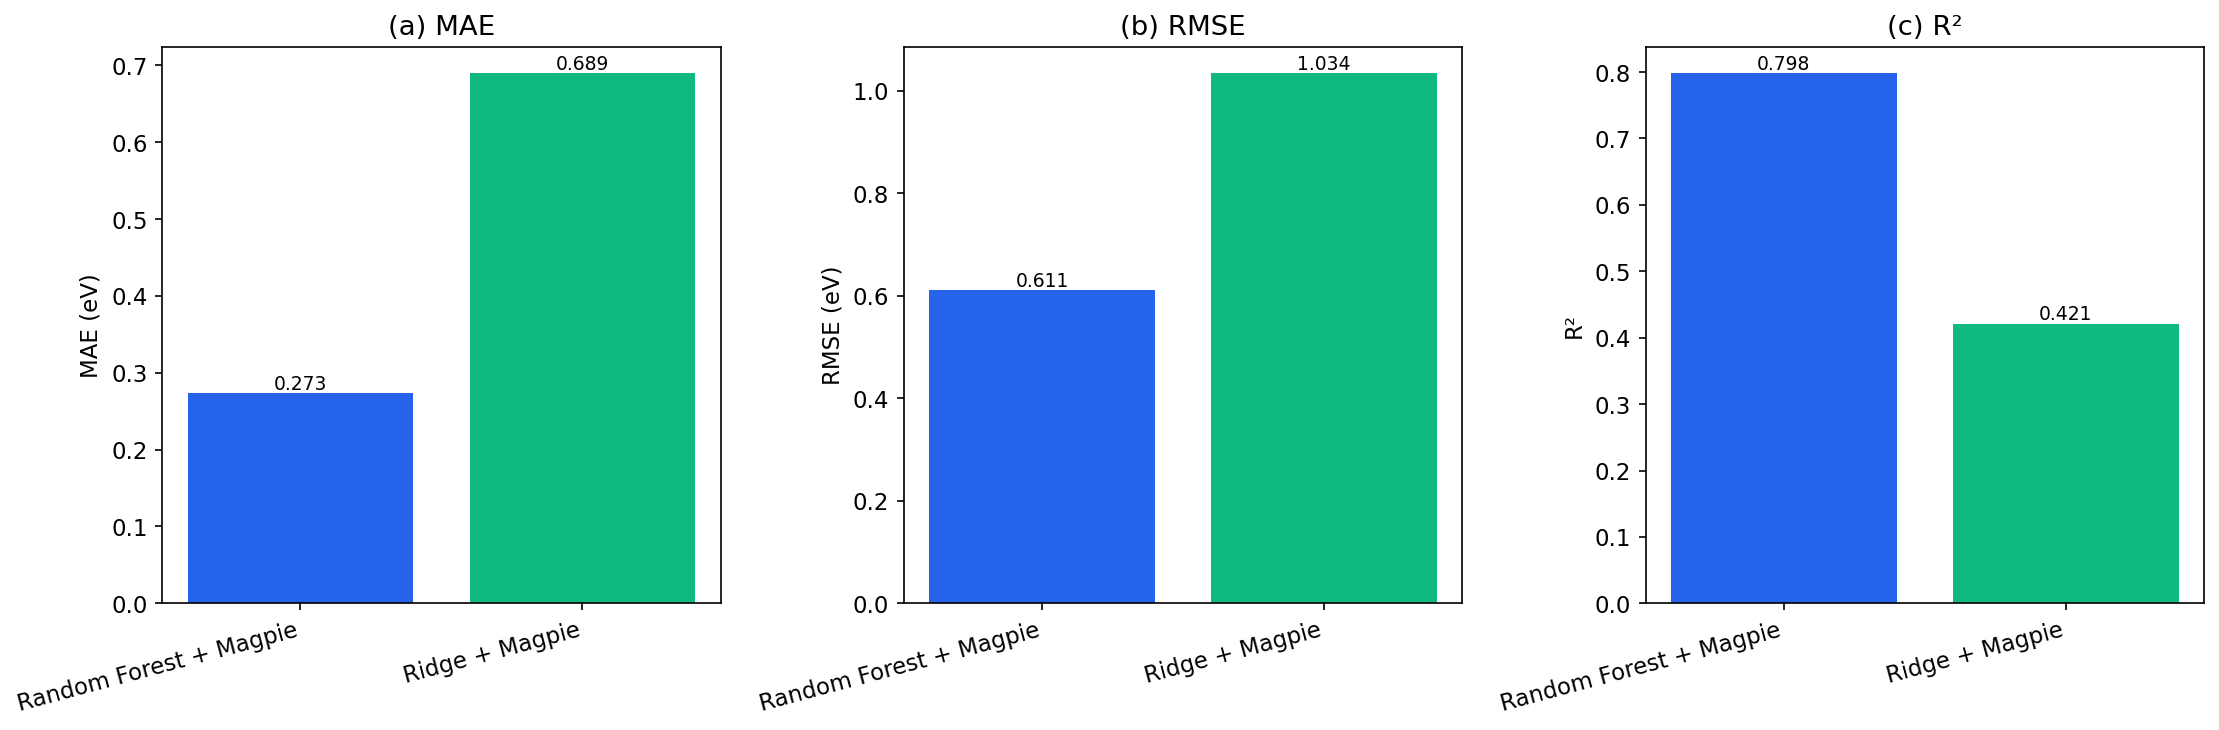
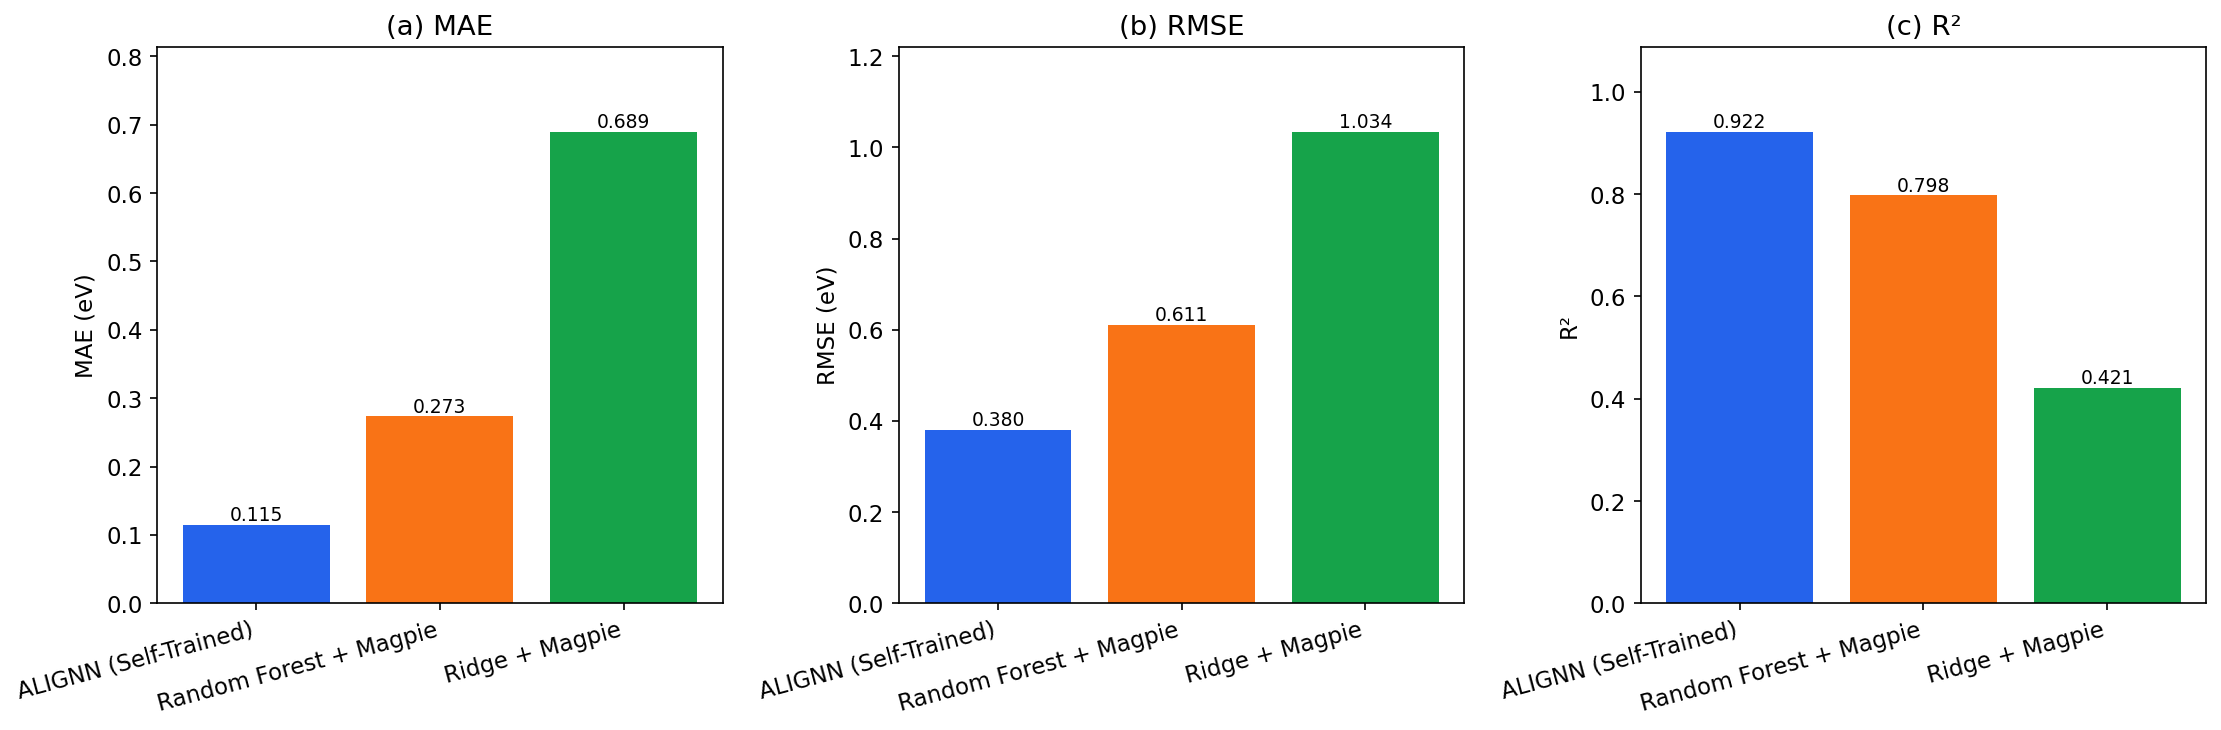
Update evaluation outputs and slide outline

diff --git a/src/evaluate.py b/src/evaluate.py
@@ -23,12 +23,13 @@ from utils import (
 
 
 def compute_metrics(y_true: np.ndarray, y_pred: np.ndarray) -> dict[str, float]:
-    from sklearn.metrics import mean_absolute_error, mean_squared_error, r2_score
-
+    residuals = y_pred - y_true
+    ss_res = float(np.sum(residuals**2))
+    ss_tot = float(np.sum((y_true - np.mean(y_true)) ** 2))
     return {
-        "MAE_eV": float(mean_absolute_error(y_true, y_pred)),
-        "RMSE_eV": float(np.sqrt(mean_squared_error(y_true, y_pred))),
-        "R2": float(r2_score(y_true, y_pred)),
+        "MAE_eV": float(np.mean(np.abs(residuals))),
+        "RMSE_eV": float(np.sqrt(np.mean(residuals**2))),
+        "R2": float(1 - ss_res / ss_tot) if ss_tot else 0.0,
     }
 
 
@@ -37,7 +38,16 @@ def load_prediction_frame() -> pd.DataFrame:
     catalog_path = RESULTS_DIR / "material_catalog.csv"
     if not prediction_path.exists() or not catalog_path.exists():
         return pd.DataFrame(
-            columns=["jid", "target", "alignn_pretrained", "random_forest", "ridge", "formula", "family"]
+            columns=[
+                "jid",
+                "target",
+                "alignn_pretrained",
+                "alignn_self_trained",
+                "random_forest",
+                "ridge",
+                "formula",
+                "family",
+            ]
         )
 
     bundle = np.load(prediction_path, allow_pickle=True)
@@ -50,6 +60,19 @@ def load_prediction_frame() -> pd.DataFrame:
             "ridge": bundle["ridge"].astype(float),
         }
     )
+    self_trained_path = RESULTS_DIR / "self_trained_predictions.npz"
+    if self_trained_path.exists():
+        self_trained = np.load(self_trained_path, allow_pickle=True)
+        self_frame = pd.DataFrame(
+            {
+                "jid": self_trained["ids"].astype(str),
+                "alignn_self_trained": self_trained["predictions"].astype(float),
+            }
+        )
+        frame = frame.merge(self_frame, on="jid", how="left")
+    else:
+        frame["alignn_self_trained"] = np.nan
+
     catalog = pd.read_csv(catalog_path)[["jid", "formula", "family"]]
     return frame.merge(catalog, on="jid", how="left")
 
@@ -138,7 +161,12 @@ def plot_training_history() -> bool:
     return True
 
 
-def plot_method_comparison(benchmark: dict[str, dict[str, float]]) -> None:
+def plot_method_comparison(benchmark: dict[str, dict[str, float] | None]) -> None:
+    benchmark = {
+        key: payload
+        for key, payload in benchmark.items()
+        if payload is not None and not np.isnan(payload.get("MAE_eV", np.nan))
+    }
     if not benchmark:
         return
 
@@ -151,7 +179,7 @@ def plot_method_comparison(benchmark: dict[str, dict[str, float]]) -> None:
     r2s = [payload.get("R2", np.nan) for payload in benchmark.values()]
 
     fig, axes = plt.subplots(1, 3, figsize=(15, 5))
-    colors = ["#2563eb", "#10b981", "#7c3aed", "#f59e0b"]
+    colors = ["#2563eb", "#f97316", "#16a34a", "#7c3aed", "#f59e0b"]
 
     for axis, values, ylabel, title in zip(
         axes,
@@ -168,6 +196,9 @@ def plot_method_comparison(benchmark: dict[str, dict[str, float]]) -> None:
             if np.isnan(value):
                 continue
             axis.text(bar.get_x() + bar.get_width() / 2, value, f"{value:.3f}", ha="center", va="bottom", fontsize=9)
+        if values and not np.all(np.isnan(values)):
+            y_max = float(np.nanmax(values))
+            axis.set_ylim(0, y_max * 1.18 if y_max > 0 else 1)
 
     plt.tight_layout()
     plt.savefig(FIGURES_DIR / "method_comparison.png", dpi=150, bbox_inches="tight")
@@ -177,10 +208,14 @@ def plot_method_comparison(benchmark: dict[str, dict[str, float]]) -> None:
 def per_family_evaluation(df: pd.DataFrame) -> list[dict[str, object]]:
     if df.empty or "family" not in df.columns:
         return []
+    metric_columns = ("alignn_self_trained", "alignn_pretrained", "random_forest", "ridge")
     rows = []
     for family, group in df.groupby("family"):
         family_row: dict[str, object] = {"family": family, "count": int(len(group))}
-        for column in ("alignn_pretrained", "random_forest", "ridge"):
+        for column in metric_columns:
+            if column not in group.columns:
+                family_row[f"{column}_MAE_eV"] = None
+                continue
             valid = group[["target", column]].dropna()
             family_row[f"{column}_MAE_eV"] = (
                 float(np.mean(np.abs(valid[column] - valid["target"]))) if not valid.empty else None
@@ -194,17 +229,45 @@ def per_family_evaluation(df: pd.DataFrame) -> list[dict[str, object]]:
         setup_matplotlib()
         import matplotlib.pyplot as plt
 
+        plot_columns = [
+            ("alignn_self_trained_MAE_eV", "ALIGNN (Self-Trained)", "#2563eb"),
+            ("random_forest_MAE_eV", "Random Forest", "#f97316"),
+            ("ridge_MAE_eV", "Ridge", "#16a34a"),
+        ]
+        if top.get("alignn_pretrained_MAE_eV", pd.Series(dtype=float)).notna().any():
+            plot_columns.insert(1, ("alignn_pretrained_MAE_eV", "ALIGNN (Pretrained)", "#7c3aed"))
+        plot_columns = [
+            (column, label, color)
+            for column, label, color in plot_columns
+            if column in top.columns and top[column].notna().any()
+        ]
+        if not plot_columns:
+            return result
+
         positions = np.arange(len(top))
-        width = 0.25
+        width = min(0.8 / len(plot_columns), 0.24)
         fig, ax = plt.subplots(figsize=(12, 6))
-        ax.bar(positions - width, top["alignn_pretrained_MAE_eV"].fillna(np.nan), width, label="ALIGNN (Pretrained)")
-        ax.bar(positions, top["random_forest_MAE_eV"].fillna(np.nan), width, label="Random Forest")
-        ax.bar(positions + width, top["ridge_MAE_eV"].fillna(np.nan), width, label="Ridge")
+        offsets = (np.arange(len(plot_columns)) - (len(plot_columns) - 1) / 2) * width
+        for offset, (column, label, color) in zip(offsets, plot_columns):
+            bars = ax.bar(positions + offset, top[column].fillna(np.nan), width, label=label, color=color)
+            for bar, value in zip(bars, top[column]):
+                if pd.isna(value):
+                    continue
+                ax.text(
+                    bar.get_x() + bar.get_width() / 2,
+                    float(value),
+                    f"{float(value):.3f}",
+                    ha="center",
+                    va="bottom",
+                    fontsize=8,
+                )
         ax.set_xticks(positions)
         ax.set_xticklabels(top["family"], rotation=20, ha="right")
         ax.set_ylabel("MAE (eV)")
         ax.set_title("Per-Family Prediction Error")
         ax.legend()
+        y_max = float(np.nanmax([top[column].to_numpy(dtype=float) for column, _, _ in plot_columns]))
+        ax.set_ylim(0, y_max * 1.18 if y_max > 0 else 1)
         plt.tight_layout()
         plt.savefig(FIGURES_DIR / "per_family_performance.png", dpi=150, bbox_inches="tight")
         plt.close(fig)
@@ -220,7 +283,10 @@ def learning_curve_analysis() -> list[dict[str, object]]:
         from pymatgen.core import Composition
     except Exception as exc:
         print(f"⚠ Skipping learning curve analysis: {exc}")
-        return []
+        existing = read_json(RESULTS_DIR / "learning_curve.json", default=[]) or []
+        if existing:
+            print("   Keeping existing learning-curve results.")
+        return existing
 
     catalog = pd.read_csv(RESULTS_DIR / "material_catalog.csv").set_index("jid")
     train = pd.read_csv(DATA_DIR / "train_id_prop.csv").rename(columns={"id": "jid"}).join(catalog, on="jid", rsuffix="_meta")
@@ -298,21 +364,23 @@ def run(quick: bool = False, device: str = "cpu") -> dict[str, object]:
     set_random_seeds()
 
     frame = load_prediction_frame()
-    benchmark = read_json(RESULTS_DIR / "pretrain_benchmark.json", default={}) or {}
-
     pretrained_metrics = plot_prediction_panel(frame, "alignn_pretrained", "ALIGNN (Pretrained)", "eval_pretrained.png")
+    self_trained_metrics = plot_prediction_panel(
+        frame, "alignn_self_trained", "ALIGNN (Self-Trained)", "eval_self_trained.png"
+    )
     rf_metrics = plot_prediction_panel(frame, "random_forest", "Random Forest", "eval_random_forest.png")
     ridge_metrics = plot_prediction_panel(frame, "ridge", "Ridge Regression", "eval_ridge.png")
-    self_trained_metrics = None
-    self_trained_bundle = RESULTS_DIR / "self_trained_predictions.npz"
-    if self_trained_bundle.exists():
-        data = np.load(self_trained_bundle, allow_pickle=True)
-        temp = pd.DataFrame({"target": data["targets"], "self_trained": data["predictions"]})
-        metrics = plot_prediction_panel(temp.rename(columns={"self_trained": "prediction"}), "prediction", "ALIGNN (Self-Trained)", "eval_self_trained.png")
-        self_trained_metrics = metrics
 
     plot_training_history()
-    plot_method_comparison(benchmark)
+    plot_method_comparison(
+        {
+            "alignn_self_trained": {"method": "ALIGNN (Self-Trained)", **self_trained_metrics}
+            if self_trained_metrics
+            else None,
+            "random_forest": {"method": "Random Forest + Magpie", **rf_metrics} if rf_metrics else None,
+            "ridge": {"method": "Ridge + Magpie", **ridge_metrics} if ridge_metrics else None,
+        }
+    )
     family_rows = per_family_evaluation(frame)
     curve_rows = learning_curve_analysis()
 

diff --git a/src/utils.py b/src/utils.py
@@ -62,7 +62,7 @@ def setup_matplotlib() -> None:
 
     plt.rcParams.update(
         {
-            "font.family": ["DejaVu Sans", "Arial Unicode MS"],
+            "font.family": ["DejaVu Sans"],
             "axes.unicode_minus": False,
             "font.size": 11,
             "figure.dpi": 150,

diff --git a/report/slides_outline.md b/report/slides_outline.md
@@ -15,12 +15,12 @@
 7. Data exploration
    Distribution of band gaps and family composition.
 8. Benchmark results
-   MAE / RMSE / R² comparison across available models.
+   MAE / RMSE / R² comparison showing self-trained ALIGNN outperforming Random Forest and Ridge.
 9. Error analysis
-   Scatter plots, residuals, and per-family behavior.
+   Self-trained ALIGNN scatter plot, residuals, and per-family behavior.
 10. Training status
-   Quick-mode training path and GPU execution plan.
+   Completed V100 CUDA run: 50 epochs, best validation MAE, and final test MAE.
 11. Discussion
-   Reliability-first pipeline and current limitations.
+   Why graph and bond-angle information improves over composition-only baselines.
 12. Conclusion
-   Main findings and next steps toward full CUDA ALIGNN training.
+   Main finding: ALIGNN reaches 0.115 eV test MAE and beats the baseline target.
